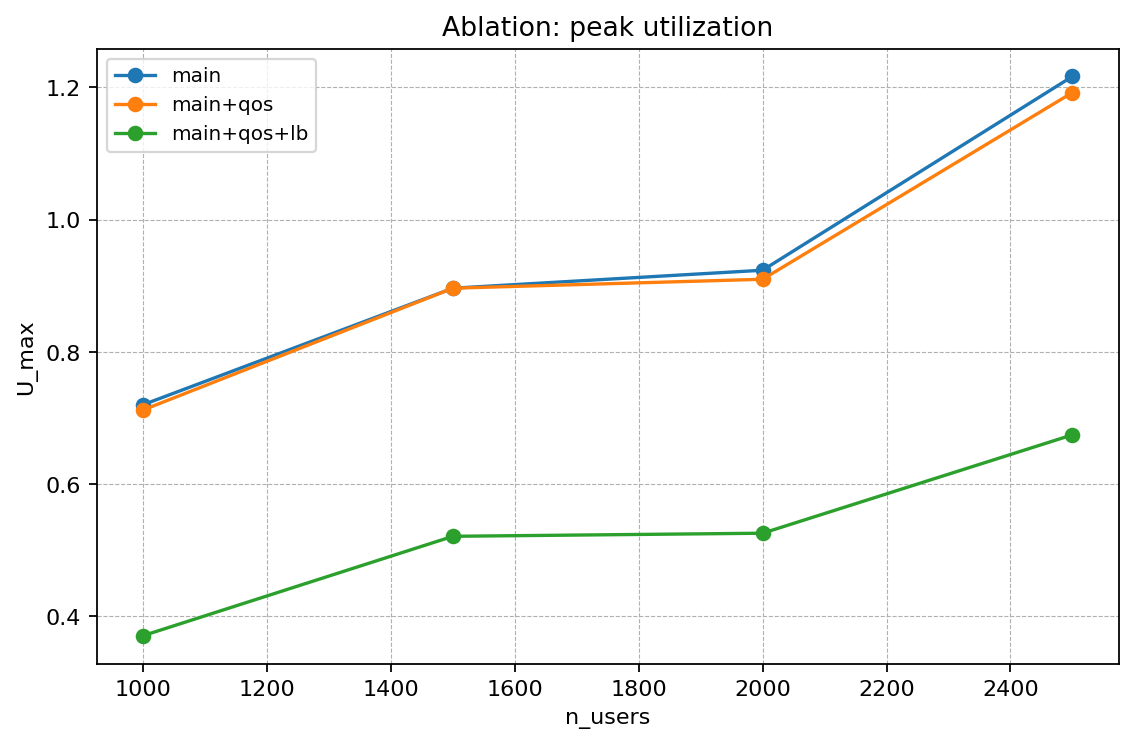
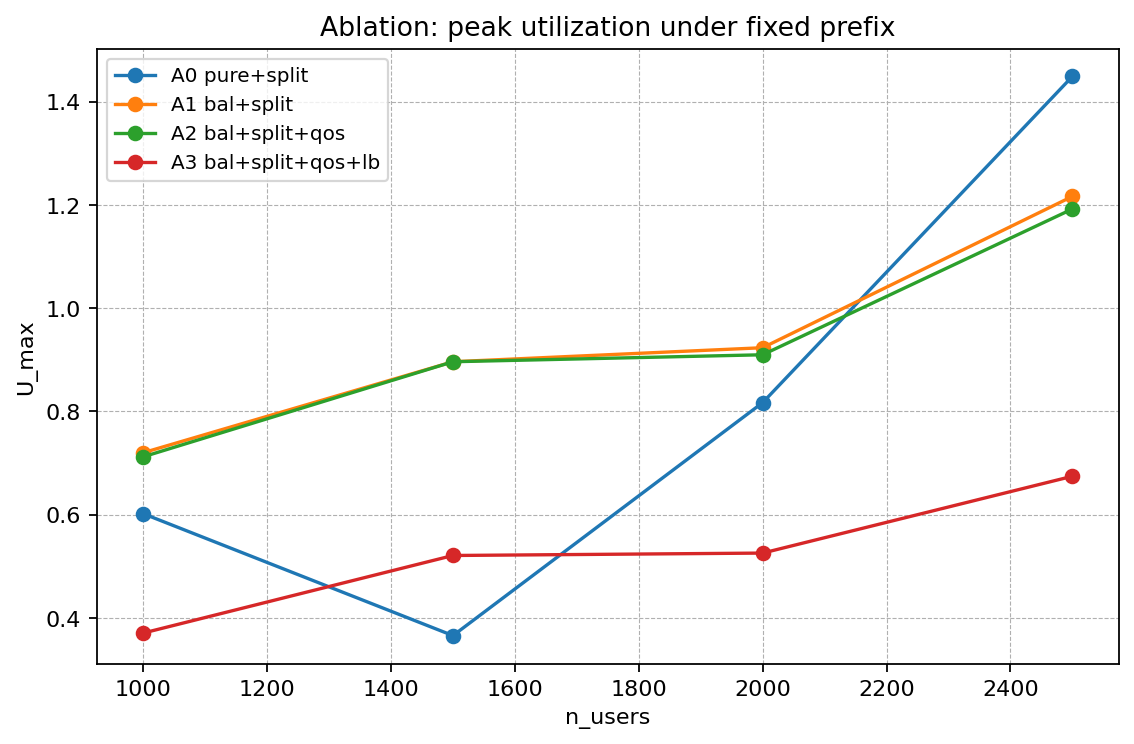
Added system ablation study and plots

diff --git a/src/pipeline.py b/src/pipeline.py
@@ -1018,6 +1018,39 @@ def run_scenario(cfg: ScenarioConfig) -> dict[str, Any]:
    )
    print(f"seed: {cfg.run.seed} users: {cfg.run.n_users} active_sats: {len(active_sats)} method: _local_build_main_ref_lb assoc_rule: max_service_time fixed_m: {sys_fixed_m}")
 
+   # Rigid fixed-prefix ablation chain:
+   # A0 = pure max elev + split only
+   # A1 = balanced max elev + split only
+   # A2 = balanced max elev + split + QoS refine
+   # A3 = balanced max elev + split + QoS refine + LB refine
+   ab_fixed_m = int(sys_fixed_m)
+
+   prof_ab_A0 = Profiler()
+   cand_ab_A0, rt_ab_A0 = _run_method_with_fixed_prefix(
+       users_raw, sat_ecef_full, sat_vel_full, cfg, _local_build_main,
+       m_fixed=ab_fixed_m, assoc_rule="pure_max_elev", prof=prof_ab_A0,
+   )
+   print(f"seed: {cfg.run.seed} users: {cfg.run.n_users} active_sats: {len(active_sats)} ablation: A0 pure_max_elev + split fixed_m: {ab_fixed_m}")
+
+   prof_ab_A1 = Profiler()
+   cand_ab_A1, rt_ab_A1 = _run_method_with_fixed_prefix(
+       users_raw, sat_ecef_full, sat_vel_full, cfg, _local_build_main,
+       m_fixed=ab_fixed_m, assoc_rule="balanced_max_elev", prof=prof_ab_A1,
+   )
+   print(f"seed: {cfg.run.seed} users: {cfg.run.n_users} active_sats: {len(active_sats)} ablation: A1 balanced_max_elev + split fixed_m: {ab_fixed_m}")
+
+   prof_ab_A2 = Profiler()
+   cand_ab_A2, rt_ab_A2 = _run_method_with_fixed_prefix(
+       users_raw, sat_ecef_full, sat_vel_full, cfg, _local_build_main_ref,
+       m_fixed=ab_fixed_m, assoc_rule="balanced_max_elev", prof=prof_ab_A2,
+   )
+   print(f"seed: {cfg.run.seed} users: {cfg.run.n_users} active_sats: {len(active_sats)} ablation: A2 balanced_max_elev + split + qos fixed_m: {ab_fixed_m}")
+
+   # A3 is identical to the balanced fixed-prefix system comparison above.
+   prof_ab_A3 = prof_sys_bal
+   cand_ab_A3 = cand_sys_bal
+   rt_ab_A3 = rt_sys_bal
+
 
    prof_wk_d = Profiler()
    cand_wk_d_rep, rt_wk_d = _run_method_with_prefix_search(users_raw, sat_ecef_full, sat_vel_full, active_sats, cfg, _local_build_wkmeans_repaired(False), assoc_rule="balanced_max_elev", prof=prof_wk_d)
@@ -1055,6 +1088,10 @@ def run_scenario(cfg: ScenarioConfig) -> dict[str, Any]:
    sys_pure_summary = _candidate_summary(cand_sys_pure, cfg)
    sys_balanced_summary = _candidate_summary(cand_sys_bal, cfg)
    sys_service_time_summary = _candidate_summary(cand_sys_dur, cfg)
+   ab_A0_summary = _candidate_summary(cand_ab_A0, cfg)
+   ab_A1_summary = _candidate_summary(cand_ab_A1, cfg)
+   ab_A2_summary = _candidate_summary(cand_ab_A2, cfg)
+   ab_A3_summary = _candidate_summary(cand_ab_A3, cfg)
    wk_demand_rep = _candidate_summary(cand_wk_d_rep, cfg)
    wk_qos_rep = _candidate_summary(cand_wk_q_rep, cfg)
    bk_rep = _candidate_summary(cand_bk_rep, cfg)
@@ -1079,6 +1116,10 @@ def run_scenario(cfg: ScenarioConfig) -> dict[str, Any]:
        print_summary(f"System compare: pure max-elevation @ fixed prefix m={sys_fixed_m}", sys_pure_summary, cfg)
        print_summary(f"System compare: balanced max-elevation @ fixed prefix m={sys_fixed_m}", sys_balanced_summary, cfg)
        print_summary(f"System compare: max-service-time @ fixed prefix m={sys_fixed_m}", sys_service_time_summary, cfg)
+       print_summary(f"Ablation A0: pure max-elev + split @ fixed prefix m={ab_fixed_m}", ab_A0_summary, cfg)
+       print_summary(f"Ablation A1: balanced max-elev + split @ fixed prefix m={ab_fixed_m}", ab_A1_summary, cfg)
+       print_summary(f"Ablation A2: balanced max-elev + split + qos @ fixed prefix m={ab_fixed_m}", ab_A2_summary, cfg)
+       print_summary(f"Ablation A3: balanced max-elev + split + qos + lb @ fixed prefix m={ab_fixed_m}", ab_A3_summary, cfg)
        print_summary("WKMeans++ baseline (demand) after payload certification [global]", wk_demand_rep, cfg)
        print_summary("WKMeans++ baseline (demand*qos) after payload certification [global]", wk_qos_rep, cfg)
        if bool(getattr(cfg.run, "enable_fastbp_baselines", True)):
@@ -1169,6 +1210,10 @@ def run_scenario(cfg: ScenarioConfig) -> dict[str, Any]:
        "time_sys_pure_max_elev_s": float(rt_sys_pure),
        "time_sys_balanced_max_elev_s": float(rt_sys_bal),
        "time_sys_max_service_time_s": float(rt_sys_dur),
+       "time_ab_A0_s": float(rt_ab_A0),
+       "time_ab_A1_s": float(rt_ab_A1),
+       "time_ab_A2_s": float(rt_ab_A2),
+       "time_ab_A3_s": float(rt_ab_A3),
 
 
        "eval_calls": int((prof_lb if (cand_lb is not None and cand_lb.feasible) else prof_main).c.get("eval_calls", 0)),
@@ -1203,6 +1248,7 @@ def run_scenario(cfg: ScenarioConfig) -> dict[str, Any]:
 
        # New system-level fixed-prefix association comparison metadata
        "sys_assoc_fixed_prefix_m": int(sys_fixed_m),
+       "ablation_fixed_prefix_m": int(ab_fixed_m),
        "sys_pure_max_elev_payload_feasible": bool(cand_sys_pure is not None and cand_sys_pure.feasible),
        "sys_pure_max_elev_best_m": int(cand_sys_pure.m) if cand_sys_pure is not None else 0,
        "sys_pure_max_elev_assoc_moves": int(getattr(cand_sys_pure.assoc, "n_moves", 0)) if cand_sys_pure is not None else 0,
@@ -1216,12 +1262,33 @@ def run_scenario(cfg: ScenarioConfig) -> dict[str, Any]:
        "sys_max_service_time_assoc_moves": int(getattr(cand_sys_dur.assoc, "n_moves", 0)) if cand_sys_dur is not None else 0,
        "sys_max_service_time_n_unserved": int(getattr(cand_sys_dur.assoc, "n_unserved", 0)) if cand_sys_dur is not None else 0,
 
+       "ab_A0_payload_feasible": bool(cand_ab_A0 is not None and cand_ab_A0.feasible),
+       "ab_A0_best_m": int(cand_ab_A0.m) if cand_ab_A0 is not None else 0,
+       "ab_A0_assoc_moves": int(getattr(cand_ab_A0.assoc, "n_moves", 0)) if cand_ab_A0 is not None else 0,
+       "ab_A0_n_unserved": int(getattr(cand_ab_A0.assoc, "n_unserved", 0)) if cand_ab_A0 is not None else 0,
+       "ab_A1_payload_feasible": bool(cand_ab_A1 is not None and cand_ab_A1.feasible),
+       "ab_A1_best_m": int(cand_ab_A1.m) if cand_ab_A1 is not None else 0,
+       "ab_A1_assoc_moves": int(getattr(cand_ab_A1.assoc, "n_moves", 0)) if cand_ab_A1 is not None else 0,
+       "ab_A1_n_unserved": int(getattr(cand_ab_A1.assoc, "n_unserved", 0)) if cand_ab_A1 is not None else 0,
+       "ab_A2_payload_feasible": bool(cand_ab_A2 is not None and cand_ab_A2.feasible),
+       "ab_A2_best_m": int(cand_ab_A2.m) if cand_ab_A2 is not None else 0,
+       "ab_A2_assoc_moves": int(getattr(cand_ab_A2.assoc, "n_moves", 0)) if cand_ab_A2 is not None else 0,
+       "ab_A2_n_unserved": int(getattr(cand_ab_A2.assoc, "n_unserved", 0)) if cand_ab_A2 is not None else 0,
+       "ab_A3_payload_feasible": bool(cand_ab_A3 is not None and cand_ab_A3.feasible),
+       "ab_A3_best_m": int(cand_ab_A3.m) if cand_ab_A3 is not None else 0,
+       "ab_A3_assoc_moves": int(getattr(cand_ab_A3.assoc, "n_moves", 0)) if cand_ab_A3 is not None else 0,
+       "ab_A3_n_unserved": int(getattr(cand_ab_A3.assoc, "n_unserved", 0)) if cand_ab_A3 is not None else 0,
+
        "main": main_summary,
        "main_ref": ref_summary,
        "main_ref_lb": lb_summary,
        "sys_pure_max_elev": sys_pure_summary,
        "sys_balanced_max_elev": sys_balanced_summary,
        "sys_max_service_time": sys_service_time_summary,
+       "ab_A0_pure_split": ab_A0_summary,
+       "ab_A1_bal_split": ab_A1_summary,
+       "ab_A2_bal_split_qos": ab_A2_summary,
+       "ab_A3_bal_split_qos_lb": ab_A3_summary,
        "wk_demand_fixed": wk_demand_fixed,
        "wk_demand_rep": wk_demand_rep,
        "wk_qos_fixed": wk_qos_fixed,

diff --git a/src/sweep_plots.py b/src/sweep_plots.py
@@ -315,13 +315,38 @@ def _write_phaseB_tables_txt(dfB, out_dir: str, *, csv_path: str) -> None:
     }
     lines.append(_format_table_block("K_vs_nusers", _series_table_rows(dfB, "K_vs_nusers", k_series)))
 
-    # Ablation tables
-    ablation_u = {
-        "main": "main_U_max",
-        "main+qos": "main_ref_U_max",
-        "main+qos+lb": "main_ref_lb_U_max",
+    # Rigid fixed-prefix ablation tables
+    ab_feas = {
+        "A0 pure+split": "ab_A0_payload_feasible",
+        "A1 bal+split": "ab_A1_payload_feasible",
+        "A2 bal+split+qos": "ab_A2_payload_feasible",
+        "A3 bal+split+qos+lb": "ab_A3_payload_feasible",
     }
-    lines.append(_format_table_block("ablation_Umax_vs_nusers", _series_table_rows(dfB, "ablation_Umax_vs_nusers", ablation_u)))
+    lines.append(_format_table_block("ablation_feasible_rate_vs_nusers", _series_table_rows(dfB, "ablation_feasible_rate_vs_nusers", ab_feas)))
+
+    ab_k = {
+        "A0 pure+split": "ab_A0_pure_split_K",
+        "A1 bal+split": "ab_A1_bal_split_K",
+        "A2 bal+split+qos": "ab_A2_bal_split_qos_K",
+        "A3 bal+split+qos+lb": "ab_A3_bal_split_qos_lb_K",
+    }
+    lines.append(_format_table_block("ablation_K_vs_nusers", _series_table_rows(dfB, "ablation_K_vs_nusers", ab_k)))
+
+    ab_umax = {
+        "A0 pure+split": "ab_A0_pure_split_U_max",
+        "A1 bal+split": "ab_A1_bal_split_U_max",
+        "A2 bal+split+qos": "ab_A2_bal_split_qos_U_max",
+        "A3 bal+split+qos+lb": "ab_A3_bal_split_qos_lb_U_max",
+    }
+    lines.append(_format_table_block("ablation_Umax_vs_nusers", _series_table_rows(dfB, "ablation_Umax_vs_nusers", ab_umax)))
+
+    ab_rt = {
+        "A0 pure+split": "time_ab_A0_s",
+        "A1 bal+split": "time_ab_A1_s",
+        "A2 bal+split+qos": "time_ab_A2_s",
+        "A3 bal+split+qos+lb": "time_ab_A3_s",
+    }
+    lines.append(_format_table_block("ablation_runtime_vs_nusers", _series_table_rows(dfB, "ablation_runtime_vs_nusers", ab_rt)))
 
     # Enterprise exposure
     ent_series = {
@@ -396,7 +421,6 @@ def make_phaseB_plots(csv_path: str, out_dir: str, *, show: bool = False) -> Non
     plot_lines_vs_nusers(
         df,
         {
-            "K theoretical min": "K_theoretical_min",
             "main+qos+lb": "main_ref_lb_K",
             "bk rep": "bk_rep_K",
             "tgbp rep": "tgbp_rep_K",
@@ -439,21 +463,68 @@ def make_phaseB_plots(csv_path: str, out_dir: str, *, show: bool = False) -> Non
         show=show,
     )
 
-    # 4) Ablation: Umax improvement
+    # 4) Rigid fixed-prefix ablation: feasible rate
     plot_lines_vs_nusers(
         df,
         {
-            "main": "main_U_max",
-            "main+qos": "main_ref_U_max",
-            "main+qos+lb": "main_ref_lb_U_max",
+            "A0 pure+split": "ab_A0_payload_feasible",
+            "A1 bal+split": "ab_A1_payload_feasible",
+            "A2 bal+split+qos": "ab_A2_payload_feasible",
+            "A3 bal+split+qos+lb": "ab_A3_payload_feasible",
         },
-        title="Ablation: peak utilization",
+        title="Ablation: feasible rate under fixed prefix",
+        ylabel="feasible rate",
+        out_path=os.path.join(out_dir, "ablation_feasible_rate_vs_nusers.png"),
+        show=show,
+    )
+
+    # 5) Rigid fixed-prefix ablation: beam count
+    plot_lines_vs_nusers(
+        df,
+        {
+            "A0 pure+split": "ab_A0_pure_split_K",
+            "A1 bal+split": "ab_A1_bal_split_K",
+            "A2 bal+split+qos": "ab_A2_bal_split_qos_K",
+            "A3 bal+split+qos+lb": "ab_A3_bal_split_qos_lb_K",
+        },
+        title="Ablation: beam count under fixed prefix",
+        ylabel="K",
+        out_path=os.path.join(out_dir, "ablation_K_vs_nusers.png"),
+        show=show
+    )
+
+    # 6) Rigid fixed-prefix ablation: Umax
+    plot_lines_vs_nusers(
+        df,
+        {
+            "A0 pure+split": "ab_A0_pure_split_U_max",
+            "A1 bal+split": "ab_A1_bal_split_U_max",
+            "A2 bal+split+qos": "ab_A2_bal_split_qos_U_max",
+            "A3 bal+split+qos+lb": "ab_A3_bal_split_qos_lb_U_max",
+        },
+        title="Ablation: peak utilization under fixed prefix",
         ylabel="U_max",
         out_path=os.path.join(out_dir, "ablation_Umax_vs_nusers.png"),
         show=show,
     )
 
-    # 5) System-level association comparison: K
+    # 7) Rigid fixed-prefix ablation: runtime
+    plot_lines_vs_nusers(
+        df,
+        {
+            "A0 pure+split": "time_ab_A0_s",
+            "A1 bal+split": "time_ab_A1_s",
+            "A2 bal+split+qos": "time_ab_A2_s",
+            "A3 bal+split+qos+lb": "time_ab_A3_s",
+        },
+        title="Ablation: runtime under fixed prefix",
+        ylabel="runtime (s)",
+        out_path=os.path.join(out_dir, "ablation_runtime_vs_nusers.png"),
+        show=show,
+        y_log=True,
+    )
+
+    # 8) System-level association comparison: K
     plot_lines_vs_nusers(
         df,
         {

diff --git a/src/helper.py b/src/helper.py
@@ -409,6 +409,10 @@ def flatten_run_record(rec: dict[str, Any]) -> dict[str, Any]:
         "time_sys_pure_max_elev_s": rec.get("time_sys_pure_max_elev_s", float("nan")),
         "time_sys_balanced_max_elev_s": rec.get("time_sys_balanced_max_elev_s", float("nan")),
         "time_sys_max_service_time_s": rec.get("time_sys_max_service_time_s", float("nan")),
+        "time_ab_A0_s": rec.get("time_ab_A0_s", float("nan")),
+        "time_ab_A1_s": rec.get("time_ab_A1_s", float("nan")),
+        "time_ab_A2_s": rec.get("time_ab_A2_s", float("nan")),
+        "time_ab_A3_s": rec.get("time_ab_A3_s", float("nan")),
         "eval_calls": rec.get("eval_calls", 0),
         "n_splits": rec.get("n_splits", 0),
         "ent_moves_tried": rec.get("ent_moves_tried", 0),
@@ -471,6 +475,7 @@ def flatten_run_record(rec: dict[str, Any]) -> dict[str, Any]:
         "tgbp_rep_payload_feasible",
         "tgbp_rep_best_m",
         "sys_assoc_fixed_prefix_m",
+        "ablation_fixed_prefix_m",
         "sys_pure_max_elev_payload_feasible",
         "sys_pure_max_elev_best_m",
         "sys_pure_max_elev_assoc_moves",
@@ -483,6 +488,22 @@ def flatten_run_record(rec: dict[str, Any]) -> dict[str, Any]:
         "sys_max_service_time_best_m",
         "sys_max_service_time_assoc_moves",
         "sys_max_service_time_n_unserved",
+        "ab_A0_payload_feasible",
+        "ab_A0_best_m",
+        "ab_A0_assoc_moves",
+        "ab_A0_n_unserved",
+        "ab_A1_payload_feasible",
+        "ab_A1_best_m",
+        "ab_A1_assoc_moves",
+        "ab_A1_n_unserved",
+        "ab_A2_payload_feasible",
+        "ab_A2_best_m",
+        "ab_A2_assoc_moves",
+        "ab_A2_n_unserved",
+        "ab_A3_payload_feasible",
+        "ab_A3_best_m",
+        "ab_A3_assoc_moves",
+        "ab_A3_n_unserved",
     ]:
         if k in rec:
             row[k] = rec[k]
@@ -502,6 +523,10 @@ def flatten_run_record(rec: dict[str, Any]) -> dict[str, Any]:
     row |= flatten_summary("sys_pure_max_elev", rec.get("sys_pure_max_elev", _nan_summary()))
     row |= flatten_summary("sys_balanced_max_elev", rec.get("sys_balanced_max_elev", _nan_summary()))
     row |= flatten_summary("sys_max_service_time", rec.get("sys_max_service_time", _nan_summary()))
+    row |= flatten_summary("ab_A0_pure_split", rec.get("ab_A0_pure_split", _nan_summary()))
+    row |= flatten_summary("ab_A1_bal_split", rec.get("ab_A1_bal_split", _nan_summary()))
+    row |= flatten_summary("ab_A2_bal_split_qos", rec.get("ab_A2_bal_split_qos", _nan_summary()))
+    row |= flatten_summary("ab_A3_bal_split_qos_lb", rec.get("ab_A3_bal_split_qos_lb", _nan_summary()))
 
     return row
 
